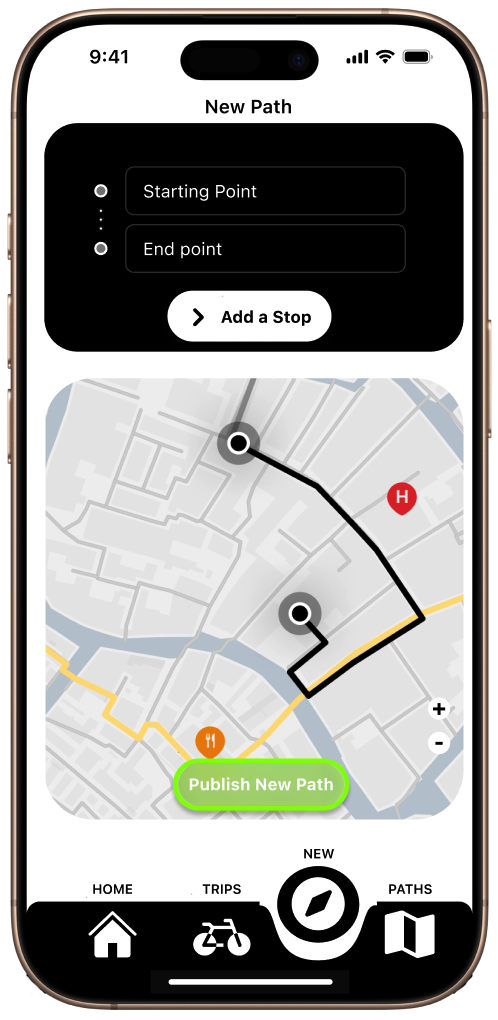
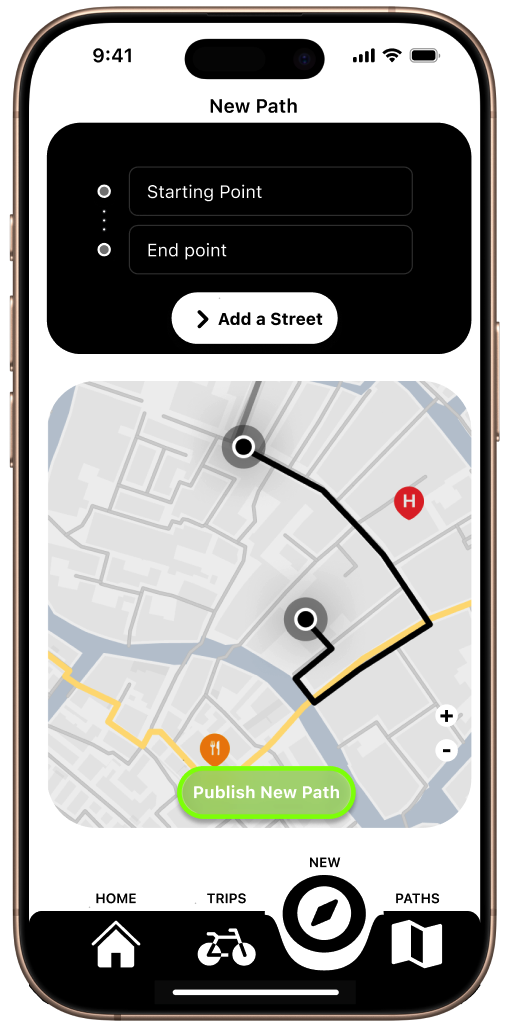
Updates from Overleaf

diff --git a/RASD/RASD.tex b/RASD/RASD.tex
@@ -619,7 +619,7 @@ Even if the UI is immediate to understand, an "On boarding" phase should be cons
 \textit{Look and feel can vary depending on the implementation}
 
 In this section we will concentrate on many critical interfaces, that are key to deliver a good final product.
-The interfaces described are: \texttt{Home with current trip}, \texttt{auto-generated path update}, \texttt{Bike Path Search \& Results}, \texttt{Manual Path Insertion} and \texttt{past trip recordings}. We also clarify the behavior of the \texttt{Login \& Sign Up} page, since sign-in is optional and therefore the user must make an explicit choice at first launch.
+The interfaces described are: \texttt{Home with current trip}, \texttt{path update}, \texttt{Bike Path Search \& Results}, \texttt{Manual Path Insertion} and \texttt{past trip recordings}. We also clarify the behavior of the \texttt{Login \& Sign Up} page, since sign-in is optional and therefore the user must make an explicit choice at first launch.
 
 \subsubsection{Login \& Sign Up}
 When the application opens for the first time, the user is presented with the Login page. It allows registered users to authenticate and access their set of features, it also makes clear that searching and viewing bike paths (public feature) is available even without creating an account. The screen offers standard credential fields for email and password, as well as an optional third-party single sign on (SSO) method.
@@ -647,8 +647,8 @@ Navigation is provided by a persistent bottom menu that is always available. The
 
 During a ride the user can also send a report about the road status.
 
-The user will be prompted when they end a trip\footnote{Only if the completed trip is safe to be shared} in order to eventually update it. By interacting with the UI, they can perform certain actions, such as: change road status, add potholes or remove false positives readings about them.
-After finishing the update, the user can decide to publish it.
+The user will be prompted when they end a trip in order to eventually update it. By interacting with the UI, they can perform certain actions, such as: change road status, add potholes or remove false positives readings about them.
+After finishing the update, the user can decide to publish it only if the bike path is considered safe; if a road is considered unsafe it should be marked on the UI with an error message.
 
 
 \begin{figure}[ph]
@@ -666,13 +666,15 @@ After finishing the update, the user can decide to publish it.
     \begin{subfigure}{0.5\textwidth}
         \centering
     \includegraphics[width=0.7\linewidth]{RASD/Images/UI/fix_auto_path.png}
-    \caption{Fixing an auto-generated path}
+    \caption{Revising a path}
     \end{subfigure}
 \end{figure}
 
 \newpage
 \subsubsection{Past trip recordings}
-In this section the user will be able to see a list of all their past recorded trips ordered by date with general metrics. Each recorded trip item can be clickable in the final product, this will take the user to a dedicated page where the trip selected is explained in details.
+In this section the user will be able to see a list of all their past recorded trips ordered by date with general metrics. Each recorded trip item can be clickable in the final product, this will take the user to a dedicated page where the trip selected is explained in details with options to publish it after reviewing. \\
+As per the auto generated paths, if a trip is composed by an invalid road, it should be marked and therefore modified by the user to publish the trip as a bike path.\\
+
 In this screen a \textit{"profile"} button is also present; this is done in order to give access to the user stored personal information, modify it or delete the profile.
 
 \begin{figure}[H]
@@ -703,7 +705,7 @@ The user can scroll through all possible result and by clicking on a path card t
 
 \begin{figure}[H]
     \centering
-    \includegraphics[width=0.5\linewidth]{RASD/Images/UI/earch_paths.png}
+    \includegraphics[width=0.5\linewidth]{RASD/Images/UI/search_path.png}
     \caption{Searching new paths}
     \label{fig:enter-label}
 \end{figure}
@@ -1378,7 +1380,7 @@ In order to guarantee these performances the backend may rely on a distributed s
 
 \subsection{Portability }
 \begin{itemize}
-    \item \textbf{Portability (App):} The BBP app must run on Android and iOS and adapt to multiple screen sizes. 
+    \item \textbf{Portability (App):} The BBP app must run on Android and iOS and adapt to multiple screen size following Responsive Design paradigms. 
     
     \item \textbf{Portability (Backend):} Backend services must be easily deployable on managed platforms. Configuration should allow cloud/provider migration with minimal effort.  
 \end{itemize}
